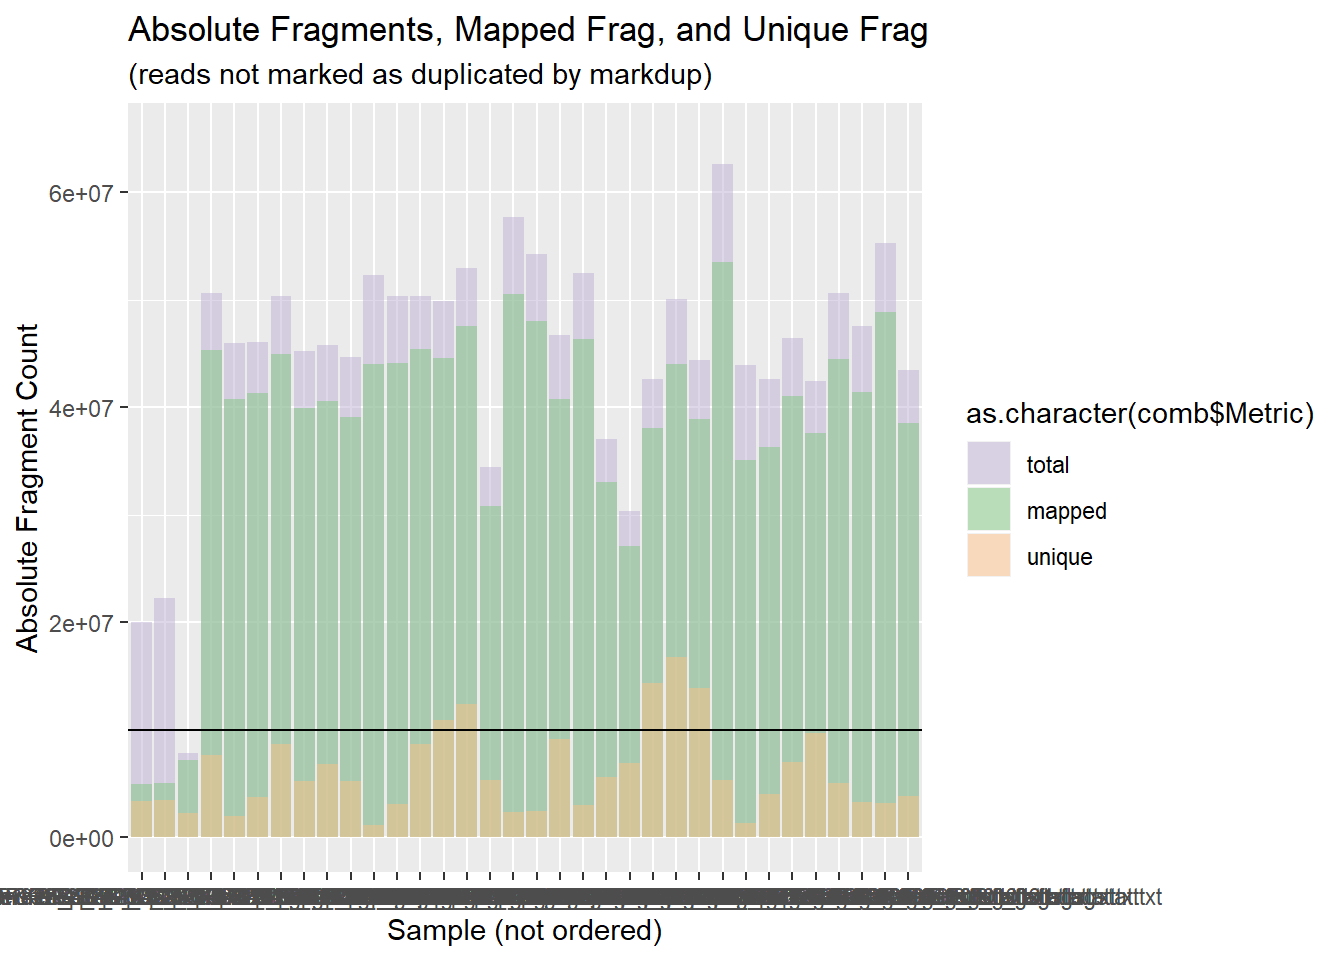
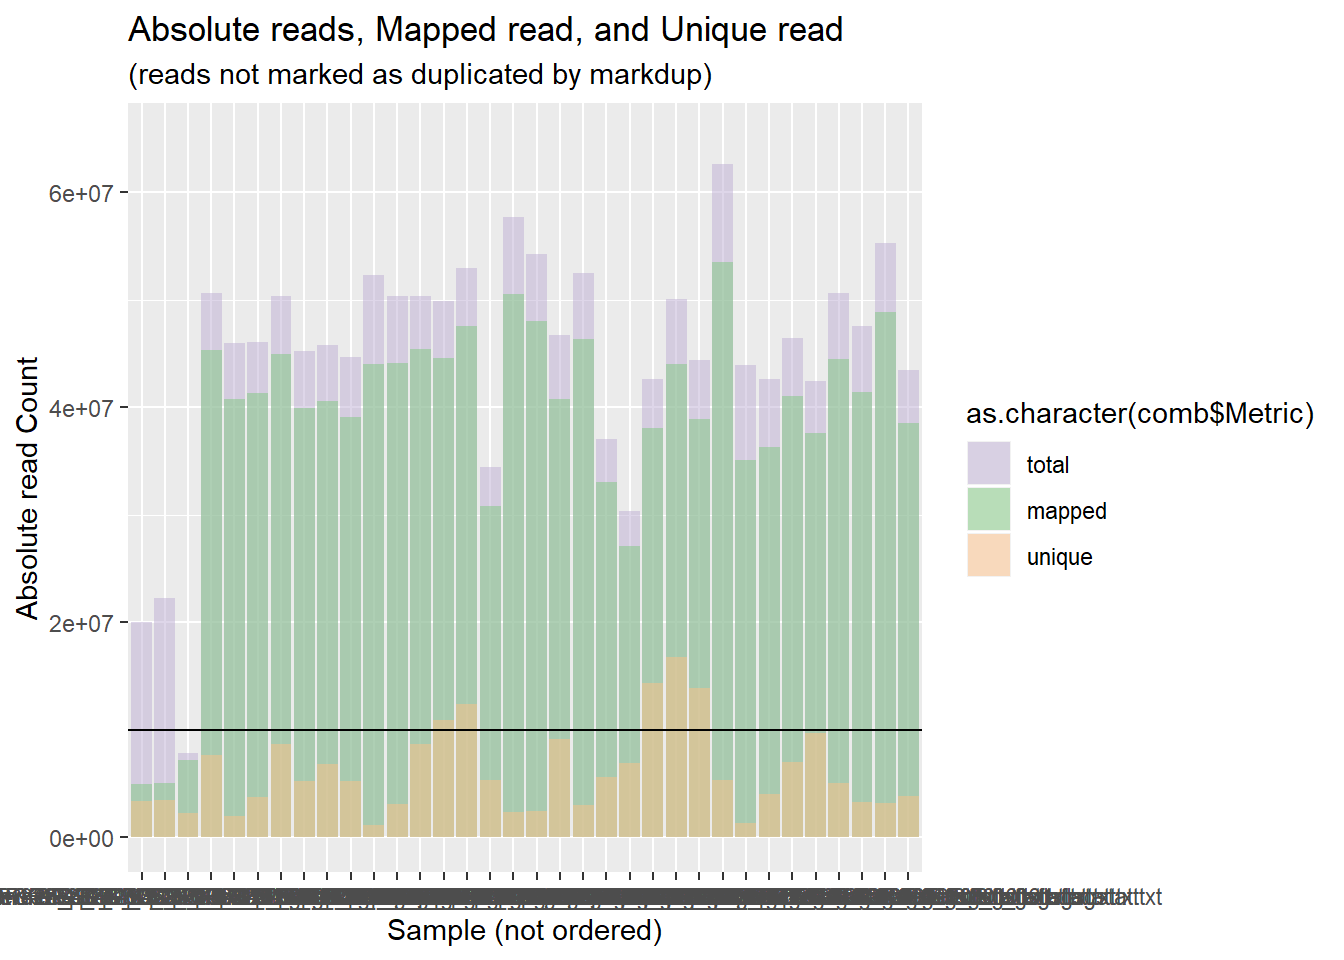
Build site.

Changed region(s): [[0.1875, 0.0, 0.6875, 0.0625], [0.0, 0.3438, 0.0312, 0.6875]]

diff --git a/docs/MarkingDuplicateFragments.html b/docs/MarkingDuplicateFragments.html
@@ -520,10 +520,10 @@ This reproducible <a href="http://rmarkdown.rstudio.com">R Markdown</a> analysis
 <div class="panel panel-default">
 <div class="panel-heading">
 <p class="panel-title">
-<a data-toggle="collapse" data-parent="#workflowr-checks" href="#strongRepositoryversionstrongahrefhttpsgithubcomKLRhodesCMATACWorkflowtreec9278dfd3464c37e814c6616cd9050f24f0d31e9targetblankc9278dfa"> <span class="glyphicon glyphicon-ok text-success" aria-hidden="true"></span> <strong>Repository version:</strong> <a href="https://github.com/KLRhodes/CM_ATAC_Workflow/tree/c9278dfd3464c37e814c6616cd9050f24f0d31e9" target="_blank">c9278df</a> </a>
+<a data-toggle="collapse" data-parent="#workflowr-checks" href="#strongRepositoryversionstrongahrefhttpsgithubcomKLRhodesCMATACWorkflowtreead6a9b706575e051439e4efca076213d1ce471b2targetblankad6a9b7a"> <span class="glyphicon glyphicon-ok text-success" aria-hidden="true"></span> <strong>Repository version:</strong> <a href="https://github.com/KLRhodes/CM_ATAC_Workflow/tree/ad6a9b706575e051439e4efca076213d1ce471b2" target="_blank">ad6a9b7</a> </a>
 </p>
 </div>
[2 lines of base64/hex data omitted]
 <div class="panel-body">
 <p>
 Great! You are using Git for version control. Tracking code development and connecting the code version to the results is critical for reproducibility. The version displayed above was the version of the Git repository at the time these results were generated. <br><br> Note that you need to be careful to ensure that all relevant files for the analysis have been committed to Git prior to generating the results (you can use <code>wflow_publish</code> or <code>wflow_git_commit</code>). workflowr only checks the R Markdown file, but you know if there are other scripts or data files that it depends on. Below is the status of the Git repository when the results were generated:
@@ -576,6 +576,40 @@ Message
 </tr>
 </thead>
 <tbody>
+<tr>
+<td>
+Rmd
+</td>
+<td>
+<a href="https://github.com/KLRhodes/CM_ATAC_Workflow/blob/ad6a9b706575e051439e4efca076213d1ce471b2/analysis/MarkingDuplicateFragments.Rmd" target="_blank">ad6a9b7</a>
+</td>
+<td>
+KLRhodes
+</td>
+<td>
+2019-02-19
+</td>
+<td>
+wflow_publish(“analysis/MarkingDuplicateFragments.Rmd”)
+</td>
+</tr>
+<tr>
+<td>
+html
+</td>
+<td>
+<a href="https://rawcdn.githack.com/KLRhodes/CM_ATAC_Workflow/e01dfadf6385ac7602cc446f12c3fe3dcc218eb0/docs/MarkingDuplicateFragments.html" target="_blank">e01dfad</a>
+</td>
+<td>
+KLRhodes
+</td>
+<td>
+2019-02-19
+</td>
+<td>
+Build site.
+</td>
+</tr>
 <tr>
 <td>
 html
@@ -760,7 +794,7 @@ noquote(readLines(&quot;../code/MarkDupFlagstatNoLoops.bash&quot;))</code></pre>
 [30]                                                                                                                   </code></pre>
 <pre class="r"><code>#from the CM_TC_ATAC/19209_and_19238/bam directory
 sbatch --partition=gilad --mem=4G submit-MarkDupFlagstat.sh</code></pre>
-<p>Now I have separate txt files with the flagstat output for each sample. I want to pull out total fragments, mapped fragments, and duplicate count.</p>
+<p>Now I have separate txt files with the flagstat output for each sample. I want to pull out total READs, mapped READs, and duplicate count.</p>
 <p>Did this using CollateFlagstat.R</p>
 <pre class="r"><code>noquote(readLines(&quot;../code/CollateFlagstat.R&quot;))</code></pre>
 <pre><code>Warning in readLines(&quot;../code/CollateFlagstat.R&quot;): incomplete final line
@@ -798,7 +832,7 @@ sbatch --partition=gilad --mem=4G submit-CollateFlagstat.sh</code></pre>
 <h4>Flagstat Content Guide:</h4>
 <div id="in-total-qc-passed-reads-qc-failed-reads" class="section level5">
 <h5>in total (QC-passed reads + QC-failed reads)</h5>
-<pre><code>-total fragments before mapping</code></pre>
+<pre><code>-total READS before mapping</code></pre>
 </div>
 <div id="secondary" class="section level5">
 <h5>secondary</h5>
@@ -812,11 +846,11 @@ sbatch --partition=gilad --mem=4G submit-CollateFlagstat.sh</code></pre>
 </div>
 <div id="mapped" class="section level5">
 <h5>mapped</h5>
-<pre><code>-total mapped fragments</code></pre>
+<pre><code>-total mapped READS</code></pre>
 </div>
 <div id="paired-in-sequencing" class="section level5">
 <h5>paired in sequencing</h5>
-<p>-how many reads had a pair. This is all of them because aligning Read 1 and Read 2 necessitates that they be “paired” #####read1 -how many “read 1” fragments mapped #####read2 -how many “read 2” fragments mapped (should be the same as read1) #####properly paired -how many R1 R2 are “properly paired” based on orientation, distance #####with itself and mate mapped #####singletons #####with mate mapped to a different chr #####with mate mapped to a different chr (mapQ&gt;=5)</p>
+<p>-how many reads had a pair. This is all of them because aligning Read 1 and Read 2 necessitates that they be “paired” #####read1 -how many “read 1” READs mapped #####read2 -how many “read 2” READs mapped (should be the same as read1) #####properly paired -how many R1 R2 are “properly paired” based on orientation, distance #####with itself and mate mapped #####singletons #####with mate mapped to a different chr #####with mate mapped to a different chr (mapQ&gt;=5)</p>
 <p>Copied flagstat_all.txt to local for analysis. It exists in the ouput folder of the workflowr directory</p>
 <pre class="r"><code>library(ggplot2)
 library(RColorBrewer)</code></pre>
@@ -832,7 +866,7 @@ dupcount&lt;- all[all$flagstat_metric ==&quot; duplicates&quot;,]
 mappedcount&lt;- all[grep(&quot; mapped \\(&quot;, all$flagstat_metric),]
 totalcount&lt;-all[grep(&quot;total&quot;, all$flagstat_metric),]
 
-#plot the number of mapped fragments
+#plot the number of mapped reads
 barplot(mappedcount$value)+
   abline(h=20000000, col=&quot;red&quot;)</code></pre>
 <p><img src="figure/MarkingDuplicateFragments.Rmd/unnamed-chunk-6-1.png" width="672" style="display: block; margin: auto;" /></p>
@@ -885,7 +919,7 @@ KLRhodes
 </div>
 </div>
 <pre><code>numeric(0)</code></pre>
-<pre class="r"><code>#get nonredundant fraction (number of unique fragments/total fragments)
+<pre class="r"><code>#get nonredundant fraction (number of unique reads/total reads)
 nrf&lt;- (mappedcount$value-dupcount$value)/mappedcount$value
 hist(nrf)</code></pre>
 <p><img src="figure/MarkingDuplicateFragments.Rmd/unnamed-chunk-6-2.png" width="672" style="display: block; margin: auto;" /></p>
@@ -970,9 +1004,9 @@ KLRhodes
 <pre><code>numeric(0)</code></pre>
 <pre class="r"><code>#most are still very low. the undetermined samples have high non redundant fraction, but this is not surprising because they&#39;ll have reads from all the samples in the lane.
 
-#get the number of unique mapped fragments per sample
-uniquemappedfrags&lt;- (mappedcount$value-dupcount$value)
-barplot(uniquemappedfrags) +
+#get the number of unique mapped reads per sample
+uniquemappedreads&lt;- (mappedcount$value-dupcount$value)
+barplot(uniquemappedreads) +
 abline(h=10000000, col=&quot;red&quot;)</code></pre>
 <p><img src="figure/MarkingDuplicateFragments.Rmd/unnamed-chunk-6-4.png" width="672" style="display: block; margin: auto;" /></p>
 <p>
@@ -1032,9 +1066,9 @@ colnames(comb)&lt;-c(&quot;Sample&quot;, &quot;Metric&quot;, &quot;Value&quot;)
 p&lt;- (ggplot(comb,aes(x=as.character(comb$Sample), y=as.numeric(as.character(comb$Value)), fill=as.character(comb$Metric)))+ 
         geom_bar(stat=&quot;identity&quot;,position = &quot;identity&quot;, alpha=.5))+
         ylim(0, 65000000)+
-        ylab(&quot;Absolute Fragment Count&quot;)+
+        ylab(&quot;Absolute read Count&quot;)+
         xlab(&quot;Sample (not ordered)&quot;)+
-        ggtitle(&quot;Absolute Fragments, Mapped Frag, and Unique Frag&quot;, subtitle = &quot;(reads not marked as duplicated by markdup)&quot;) +
+        ggtitle(&quot;Absolute reads, Mapped read, and Unique read&quot;, subtitle = &quot;(reads not marked as duplicated by markdup)&quot;) +
         geom_hline(yintercept = 10000000)
 
 p+scale_fill_brewer(breaks=c(&quot;total&quot;, &quot;mapped&quot;, &quot;unique&quot;), type=&quot;qual&quot;, palette=&quot;Accent&quot;)</code></pre>
@@ -1082,9 +1116,9 @@ comb$Value&lt;-(as.numeric(as.character(comb$Value))/(rep(totalcount$value, 3)))
 f&lt;- (ggplot(comb,aes(x=as.character(comb$Sample), y=as.numeric(as.character(comb$Value)), fill=as.character(comb$Metric)))+ 
         geom_bar(stat=&quot;identity&quot;,position = &quot;identity&quot;, alpha=.5))+
         ylim(0, 1)+
-        ylab(&quot;Absolute Fragment Count&quot;)+
+        ylab(&quot;Absolute read Count&quot;)+
         xlab(&quot;Sample (not ordered)&quot;)+
-        ggtitle(&quot;Percent Mapped Fragments and Unique Fragments&quot;, subtitle = &quot;(frags not marked as duplicated by markdup)&quot;)
+        ggtitle(&quot;Percent Mapped reads and Unique reads&quot;, subtitle = &quot;(reads not marked as duplicated by markdup)&quot;)
 f+scale_fill_brewer(breaks=c(&quot;total&quot;, &quot;mapped&quot;, &quot;unique&quot;), type=&quot;qual&quot;, palette=&quot;Accent&quot;)</code></pre>
 <p><img src="figure/MarkingDuplicateFragments.Rmd/unnamed-chunk-6-6.png" width="672" style="display: block; margin: auto;" /></p>
 <p>
